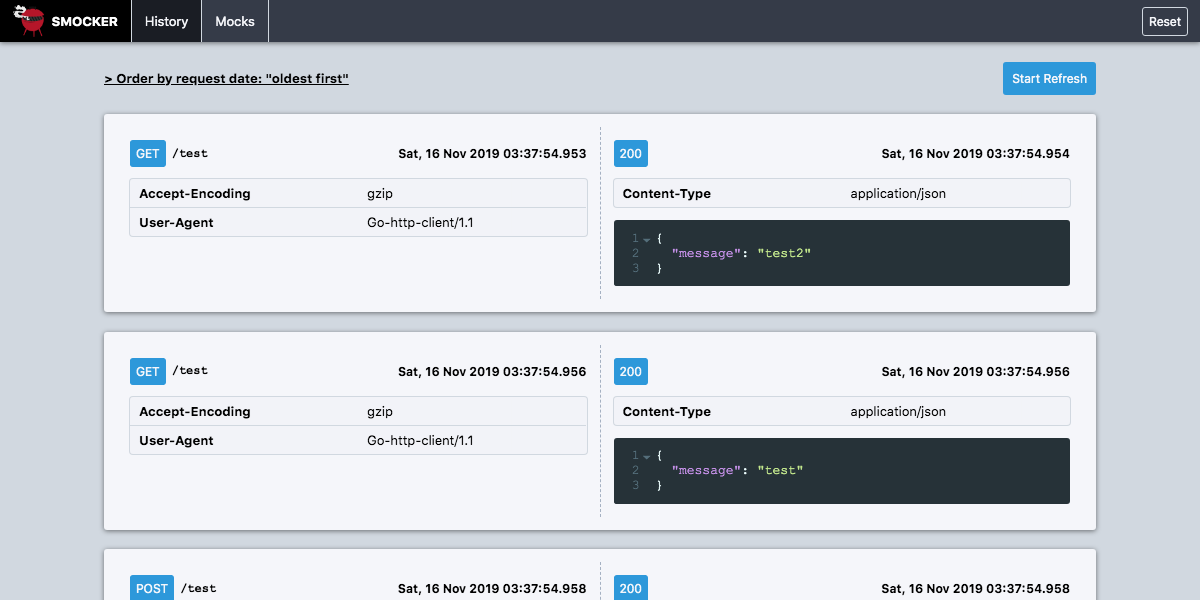
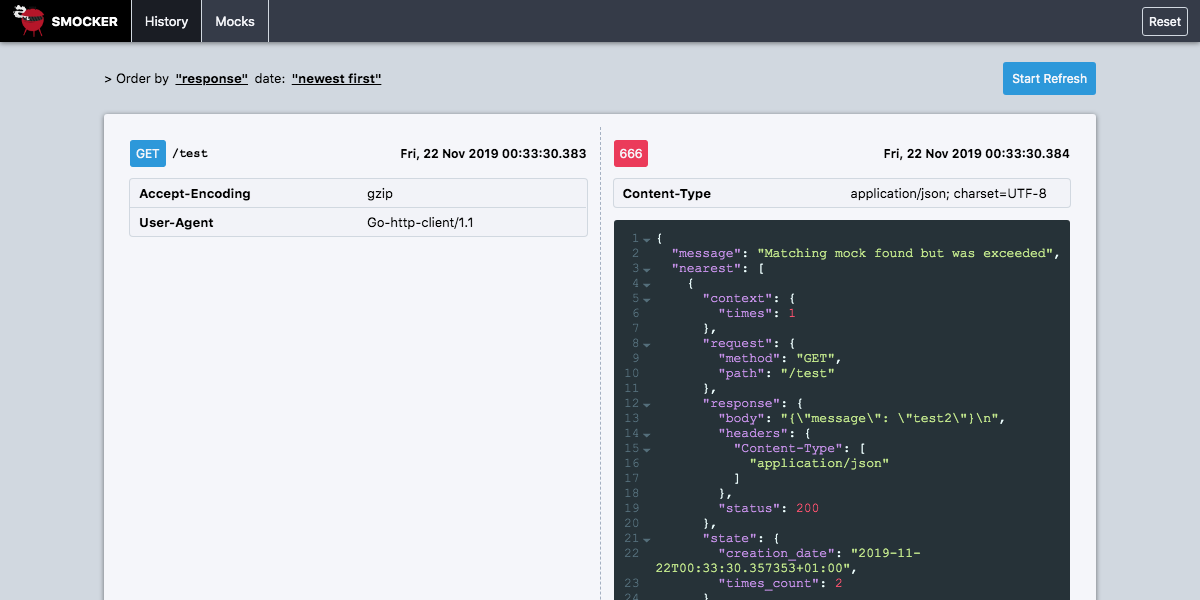
feat: add the ability to sort history by request or by response on UI + add reset query param when setting mocks

diff --git a/client/src/components/History.tsx b/client/src/components/History.tsx
@@ -124,7 +124,11 @@ interface Props {
 }
 
 const History = ({ history, loading, error, fetch }: Props) => {
-  const [asc, setAsc] = useLocalStorage("history.order.request.by.date", "asc");
+  const [order, setOrder] = useLocalStorage("history.order.by.date", "desc");
+  const [entryField, setEntryField] = useLocalStorage(
+    "history.order.by.entry.field",
+    "response"
+  );
   const [polling, togglePolling] = usePoll(fetch, 10000);
   const isEmpty = history.length === 0;
   let body = null;
@@ -143,22 +147,29 @@ const History = ({ history, loading, error, fetch }: Props) => {
       </div>
     );
   } else {
-    body = orderBy(history, "request.date", asc === "asc" ? "asc" : "desc").map(
+    body = orderBy(history, `${entryField}.date`, order as any).map(
       (entry, index) => <Entry key={`entry-${index}`} value={entry} />
     );
   }
-  const onSort = () => setAsc(asc === "asc" ? "desc" : "asc");
+  const onSort = () =>
+    setEntryField(entryField === "request" ? "response" : "request");
+  const onSortDate = () => setOrder(order === "asc" ? "desc" : "asc");
   return (
     <div className="history">
       <div className="list">
         <div className="header">
-          <a className="order" onClick={onSort}>
-            <strong>
-              {`> Order by request date: "${
-                asc === "asc" ? "oldest first" : "newest first"
-              }"`}
-            </strong>
-          </a>
+          <span>
+            > Order by
+            <a className="order" onClick={onSort}>
+              <strong>{`"${entryField}"`}</strong>
+            </a>
+            date:
+            <a className="order" onClick={onSortDate}>
+              <strong>
+                {`"${order === "asc" ? "oldest first" : "newest first"}"`}
+              </strong>
+            </a>
+          </span>
           <button
             className={classNames({ loading }, { red: polling })}
             onClick={loading ? undefined : togglePolling}

diff --git a/client/src/components/History.scss b/client/src/components/History.scss
@@ -69,6 +69,7 @@
 
       .order {
         text-decoration: underline;
+        margin: 0 0.5em;
 
         &:hover {
           color: $color-black-light;
@@ -139,15 +140,15 @@
         }
       }
 
-      .request {
-        .method {
+      .request .details > span {
+        &.method {
           border-radius: 3px;
           color: $color-white-light;
           padding: 0.5em;
           background-color: $color-blue-dark;
         }
 
-        .path {
+        &.path {
           font-family: monospace;
           white-space: pre-wrap;
           font-weight: bold;

diff --git a/client/src/components/Mocks.scss b/client/src/components/Mocks.scss
@@ -162,7 +162,7 @@
         }
       }
 
-      .request {
+      .request .details .group {
         .method {
           border-radius: 3px;
           color: $color-white-light;

diff --git a/server/server.go b/server/server.go
@@ -47,6 +47,9 @@ func Serve(config config.Config) {
 	})
 
 	e.POST("/mocks", func(c echo.Context) error {
+		if reset, _ := strconv.ParseBool(c.QueryParam("reset")); reset {
+			mockServer.Reset()
+		}
 		var mocks []*types.Mock
 		if err := c.Bind(&mocks); err != nil {
 			if err != echo.ErrUnsupportedMediaType {
